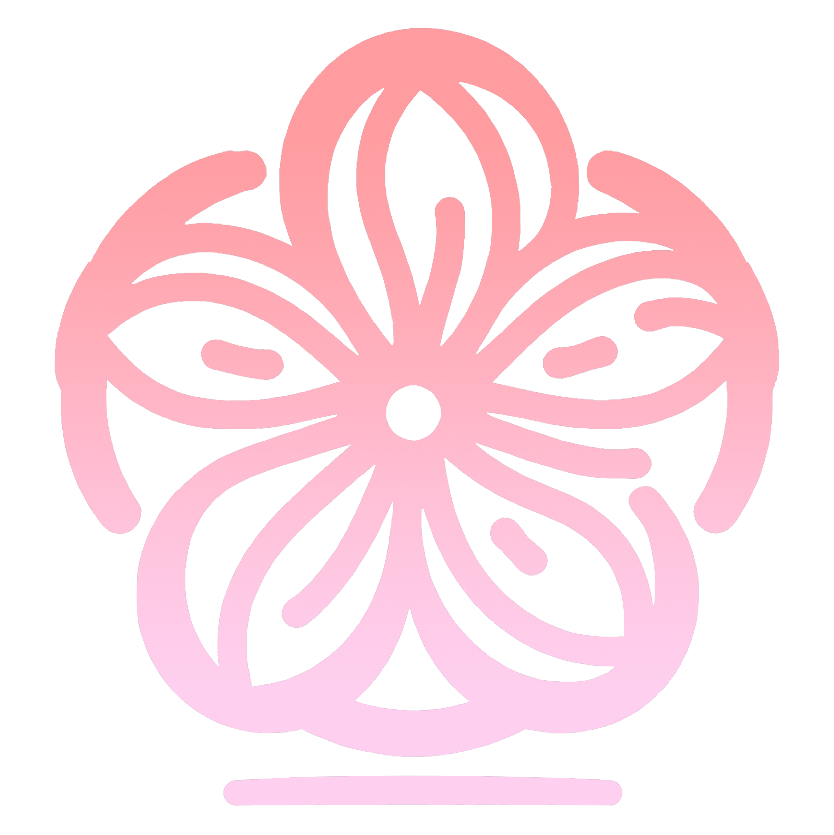
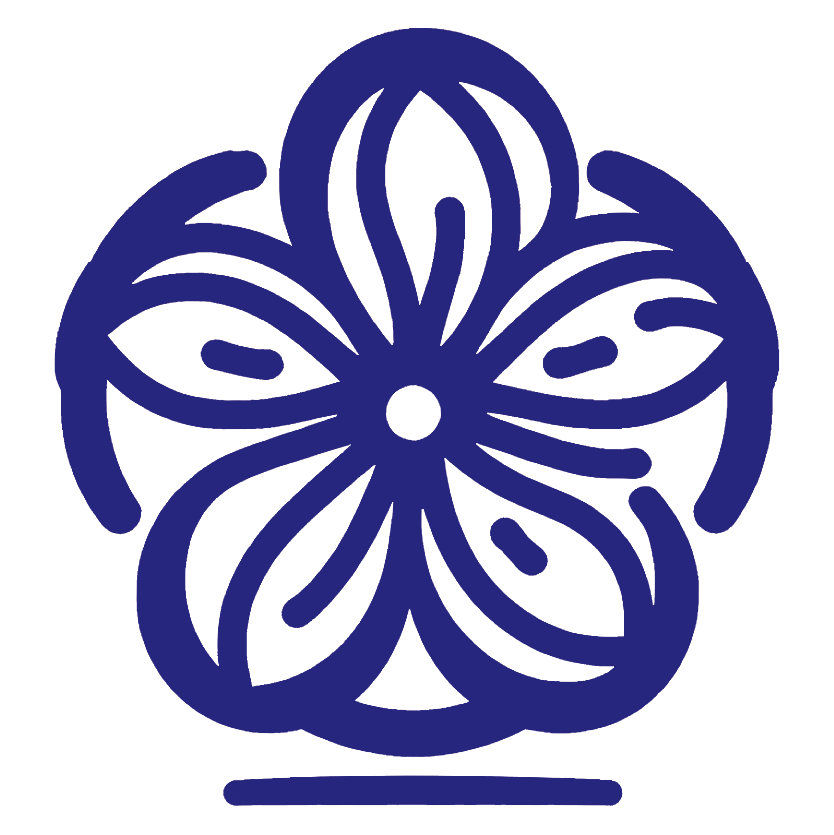
main

diff --git a/components/Header.js b/components/Header.js
@@ -4,6 +4,15 @@ import { useRouter } from "next/router";
 import Image from "next/image";
 
 export default function Header() {
+const [kheader, setKheader] = useState(false)
+const [wheader, setWheader] = useState(false)
+const [active, setActive] = useState(false);
+
+
+useEffect(() => {
+  setKheader(false)
+  setWheader(false)
+  },[active])
 
 
     const handleClick = () => {
@@ -14,7 +23,6 @@ export default function Header() {
     "block py-2 pr-4 pl-3 textColor bg-blue-500 rounded md:bg-transparent md:text-blue-500 md:p-0";
   const notselected =
     "block py-2 pr-4 pl-3 md:border-0  md:p-0 text-gray-400 md:hover:textColor hover:bg-gray-700 hover:textColor md:hover:bg-transparent border-gray-700";
-  const [active, setActive] = useState(false);
 
 
 function notLoading(e){
@@ -41,7 +49,7 @@ const navigateAndScroll = (path, id) => {
 
 <Link href="/" className="flex items-center">
 
-    <img src="/images/icon.png" className="mr-3 h-6 sm:h-9" alt="Logo" />
+    <img src="/images/icon.png" className="mr-3 h-9 sm:h-12" alt="Logo" />
     <span className="self-center text-lg font-semibold whitespace-nowrap textColor">
     English College Picker
     </span>
@@ -98,32 +106,48 @@ const navigateAndScroll = (path, id) => {
   <ul className={` flex flex-col  md:flex-row w-full md:w-auto md:gap-x-16  `} id="mobile-menu1">
   {/* <ul className="flex flex-col mt-4 md:flex-row md:space-x-8 md:mt-0 md:text-lg md:font-medium"> */}
 
-        <li key={"HeaderInfo1"} className={` textColor flex flex-row justify-center items-center gap-x-5 md:mt-0 mt-2 `}>
-                  <div
-    className={`${active ? "" : "hidden "}md:py-0 py-4  w-full md:block md:w-auto`}
-    id="mobile-menu2"
-  >
-          <button onClick={() => navigateAndScroll("/", "top")}   className="textColor border-b md:border-none font-extrabold w-full justify-center flex  items-center text-center hover:opacity-80 active:opacity-60 active:scale-105 transition-all">
-          Home
-          </button>
-          </div>
-        </li>
-        <li key={"HeaderInfo2"} className={` textColor flex flex-row justify-center items-center gap-x-5 md:mt-0  `}>
-                  <div
-    className={`${active ? "" : "hidden "}md:py-0 py-4  w-full md:block md:w-auto`}
-    id="mobile-menu3"
-  >
-          <button onClick={() => navigateAndScroll("/", "flow")}  className="textColor border-b md:border-none font-extrabold w-full justify-center flex  items-center text-center hover:opacity-80 active:opacity-60 active:scale-105 transition-all">
-          Programs
-          </button>
-          </div>
-        </li>
-        <li key={"HeaderInfo3"} className={` textColor flex flex-row justify-center items-center gap-x-5 md:mt-0  `}>
+  <li key={"HeaderInfo1"} className="textColor flex flex-row justify-center items-center gap-x-5 md:mt-0 mt-2 group relative">
+    <div className={`${active ? "" : "hidden "}md:py-0 py-4 w-full md:block md:w-auto`}>
+        <button className=" textColor border-b md:border-none font-extrabold w-full justify-center flex items-center text-center hover:text-[#FFC700] transition-all">
+        &nbsp;&nbsp;&nbsp;{`Keio/慶應`}&nbsp;&nbsp;&nbsp;&nbsp;
+        </button>
+        <div className="md:absolute w-full left-0 mt-2 bg-white shadow-md opacity-0 group-hover:opacity-100 transition-opacity ">
+            <div className="flex flex-col items-stretch">
+                {/* Flyout Menu Items Here */}
+                <a href="/university/giga" className="px-6 py-2 text-base  textColor text-center hover:bg-gray-100">GIGA</a>
+                <a href="/university/pearl" className="px-6 py-2 text-base  textColor text-center hover:bg-gray-100">PEARL</a>
+                {/* Add more menu items as needed */}
+            </div>
+        </div>
+    </div>
+</li>
+
+
+<li key={"HeaderInfo2"} className="textColor flex flex-row justify-center items-center gap-x-5 md:mt-0 relative group">
+    <div className={`${active ? "" : "hidden "}md:py-0 py-4 w-full md:block md:w-auto`}>
+        <button className="textColor border-b md:border-none font-extrabold w-full justify-center flex items-center text-center hover:text-[#800000] transition-all">
+            {`Waseda/早稲田`}
+        </button>
+        <div className="absolute w-full left-0 mt-2 bg-white shadow-md opacity-0 group-hover:opacity-100 transition-opacity">
+            <div className="flex flex-col items-stretch">
+                {/* Flyout Menu Items Here */}
+                <a href="/university/pse" className="px-6 py-2 text-base  textColor text-center hover:bg-gray-100">PSE</a>
+                <a href="/university/sils" className="px-6 py-2 text-base  textColor text-center hover:bg-gray-100">SILS</a>
+                {/* Add more menu items as needed */}
+            </div>
+        </div>
+    </div>
+</li>
+
+
+
+        
+        <li key={"HeaderInfo3"} className={` textColor flex flex-row justify-center items-center gap-x-5 md:mt-0 mt-16 `}>
                   <div
     className={`${active ? "" : "hidden "}md:py-0 py-4  w-full md:block md:w-auto`}
     id="mobile-menu4"
   >
-          <button onClick={() => navigateAndScroll("/quiz/", "")}  className="textColor border-b md:border-none font-extrabold w-full justify-center flex  items-center text-center hover:opacity-80 active:opacity-60 active:scale-105 transition-all">
+          <button onClick={() => navigateAndScroll("/quiz/", "")}  className="text-white bg-[#121272] px-8 py-2 rounded-md border-b md:border-none font-extrabold w-full justify-center flex  items-center text-center hover:opacity-80 active:opacity-60 active:scale-105 transition-all">
           Quiz
           </button>
           </div>

diff --git a/pages/index.tsx b/pages/index.tsx
@@ -50,15 +50,22 @@ function Home() {
 
 <section className="mb-56" id="top">
 
-<h1 className="md:text-5xl text-3xl text-center  robotoFont textColor lg:mb-48 md:mt-24 md:mb-32 my-10 ">English College Picker</h1>
+<h1 className="md:text-8xl text-5xl text-left ml-8 md:ml-32  robotoFont textColor font-bold lg:mb-64 md:mt-24 md:mb-32 mb-10 lg:w-7/12">English College Picker</h1>
+
+<div className="flex flex-row relative">
+<img className="absolute -left-16 bottom-48" height={128} width={128} src="/images/keio.png" />
+<img className="absolute -right-16 bottom-48" height={128} width={128} src="/images/waseda.png" /> 
+</div>
+
 
 <section className="" id="uni">
 
 
-<div className="flex flex-row relative">
+
+{/* <div className="flex flex-row relative">
 <img className="absolute -left-16" height={128} width={128} src="/images/keio.png" />
 <img className="absolute -right-16 top-96 md:top-64 lg:top-0" height={128} width={128} src="/images/waseda.png" /> 
-</div>
+</div> */}
 
 
 <div className="container px-24 mb-24 mx-auto  rounded-lg py-6 ">
@@ -149,7 +156,7 @@ RANKING
 
 <div className="flex flex-col">
 {ranking.rank.map((u: any, index: any) => (
-  <div className="flex flex-row">
+  <div key={index} className="flex flex-row">
     <p className="mb-4 robotoFont textColor text-2xl ">
     {index+1}.&nbsp;
     </p>

diff --git a/pages/university/[id].tsx b/pages/university/[id].tsx
@@ -1,7 +1,10 @@
 import { GetServerSideProps } from 'next';
 import fs from 'fs';
 import path from 'path';
-
+import Sils from '../../components/Sils'
+import Giga from '../../components/Giga'
+import Pearl from '../../components/Pearl'
+import Pse from '../../components/Pse'
 
 
 const UniversityPage = ({ university }) => {
@@ -10,9 +13,16 @@ const UniversityPage = ({ university }) => {
   return (
     <>
     <section id="top">
-    <h2 className='text-xl text-center my-8' >{university.school}</h2>
+    {/* <h2 className='text-xl text-center my-8' >{university.school}</h2> */}
 
-<h1 className='text-xl text-center my-8' >{university.fullname}</h1>
+<h1 className={`text-xl text-center my-8 `} >{university.fullname}</h1>
+
+{university.slug == "sils" ? (<Sils></Sils>) : (<></>)}
+{university.slug == "pse" ? (<Pse></Pse>) : (<></>)}
+{university.slug == "giga" ? (<Giga></Giga>) : (<></>)}
+{university.slug == "pearl" ? (<Pearl></Pearl>) : (<></>)}
+
+
     </section>
     </>
   );

diff --git a/components/Giga.js b/components/Giga.js
@@ -1,0 +1,33 @@
+import React, { ChangeEvent, useEffect, useState } from 'react'
+
+
+import Link from 'next/link'
+import toast, { Toaster } from 'react-hot-toast'
+import university from '../public/university.json'
+
+
+
+function Giga(){ 
+
+
+
+  return (
+  
+<React.Fragment>
+
+
+<div className=''>
+
+Giga
+
+</div>
+
+
+  </React.Fragment>
+
+  )
+}
+
+
+
+export default Giga

diff --git a/components/Pearl.js b/components/Pearl.js
@@ -1,0 +1,33 @@
+import React, { ChangeEvent, useEffect, useState } from 'react'
+
+
+import Link from 'next/link'
+import toast, { Toaster } from 'react-hot-toast'
+import university from '../public/university.json'
+
+
+
+function Pearl(){ 
+
+
+
+  return (
+  
+<React.Fragment>
+
+
+<div>
+
+Pearl
+
+</div>
+
+
+  </React.Fragment>
+
+  )
+}
+
+
+
+export default Pearl

diff --git a/components/Sils.js b/components/Sils.js
@@ -1,0 +1,33 @@
+import React, { ChangeEvent, useEffect, useState } from 'react'
+
+
+import Link from 'next/link'
+import toast, { Toaster } from 'react-hot-toast'
+import university from '../public/university.json'
+
+
+
+function Sils(){ 
+
+
+
+  return (
+  
+<React.Fragment>
+
+
+<div>
+
+siils
+
+</div>
+
+
+  </React.Fragment>
+
+  )
+}
+
+
+
+export default Sils

diff --git a/components/Pse.js b/components/Pse.js
@@ -1,0 +1,33 @@
+import React, { ChangeEvent, useEffect, useState } from 'react'
+
+
+import Link from 'next/link'
+import toast, { Toaster } from 'react-hot-toast'
+import university from '../public/university.json'
+
+
+
+function Pse(){ 
+
+
+
+  return (
+  
+<React.Fragment>
+
+
+<div>
+
+pse
+
+</div>
+
+
+  </React.Fragment>
+
+  )
+}
+
+
+
+export default Pse
